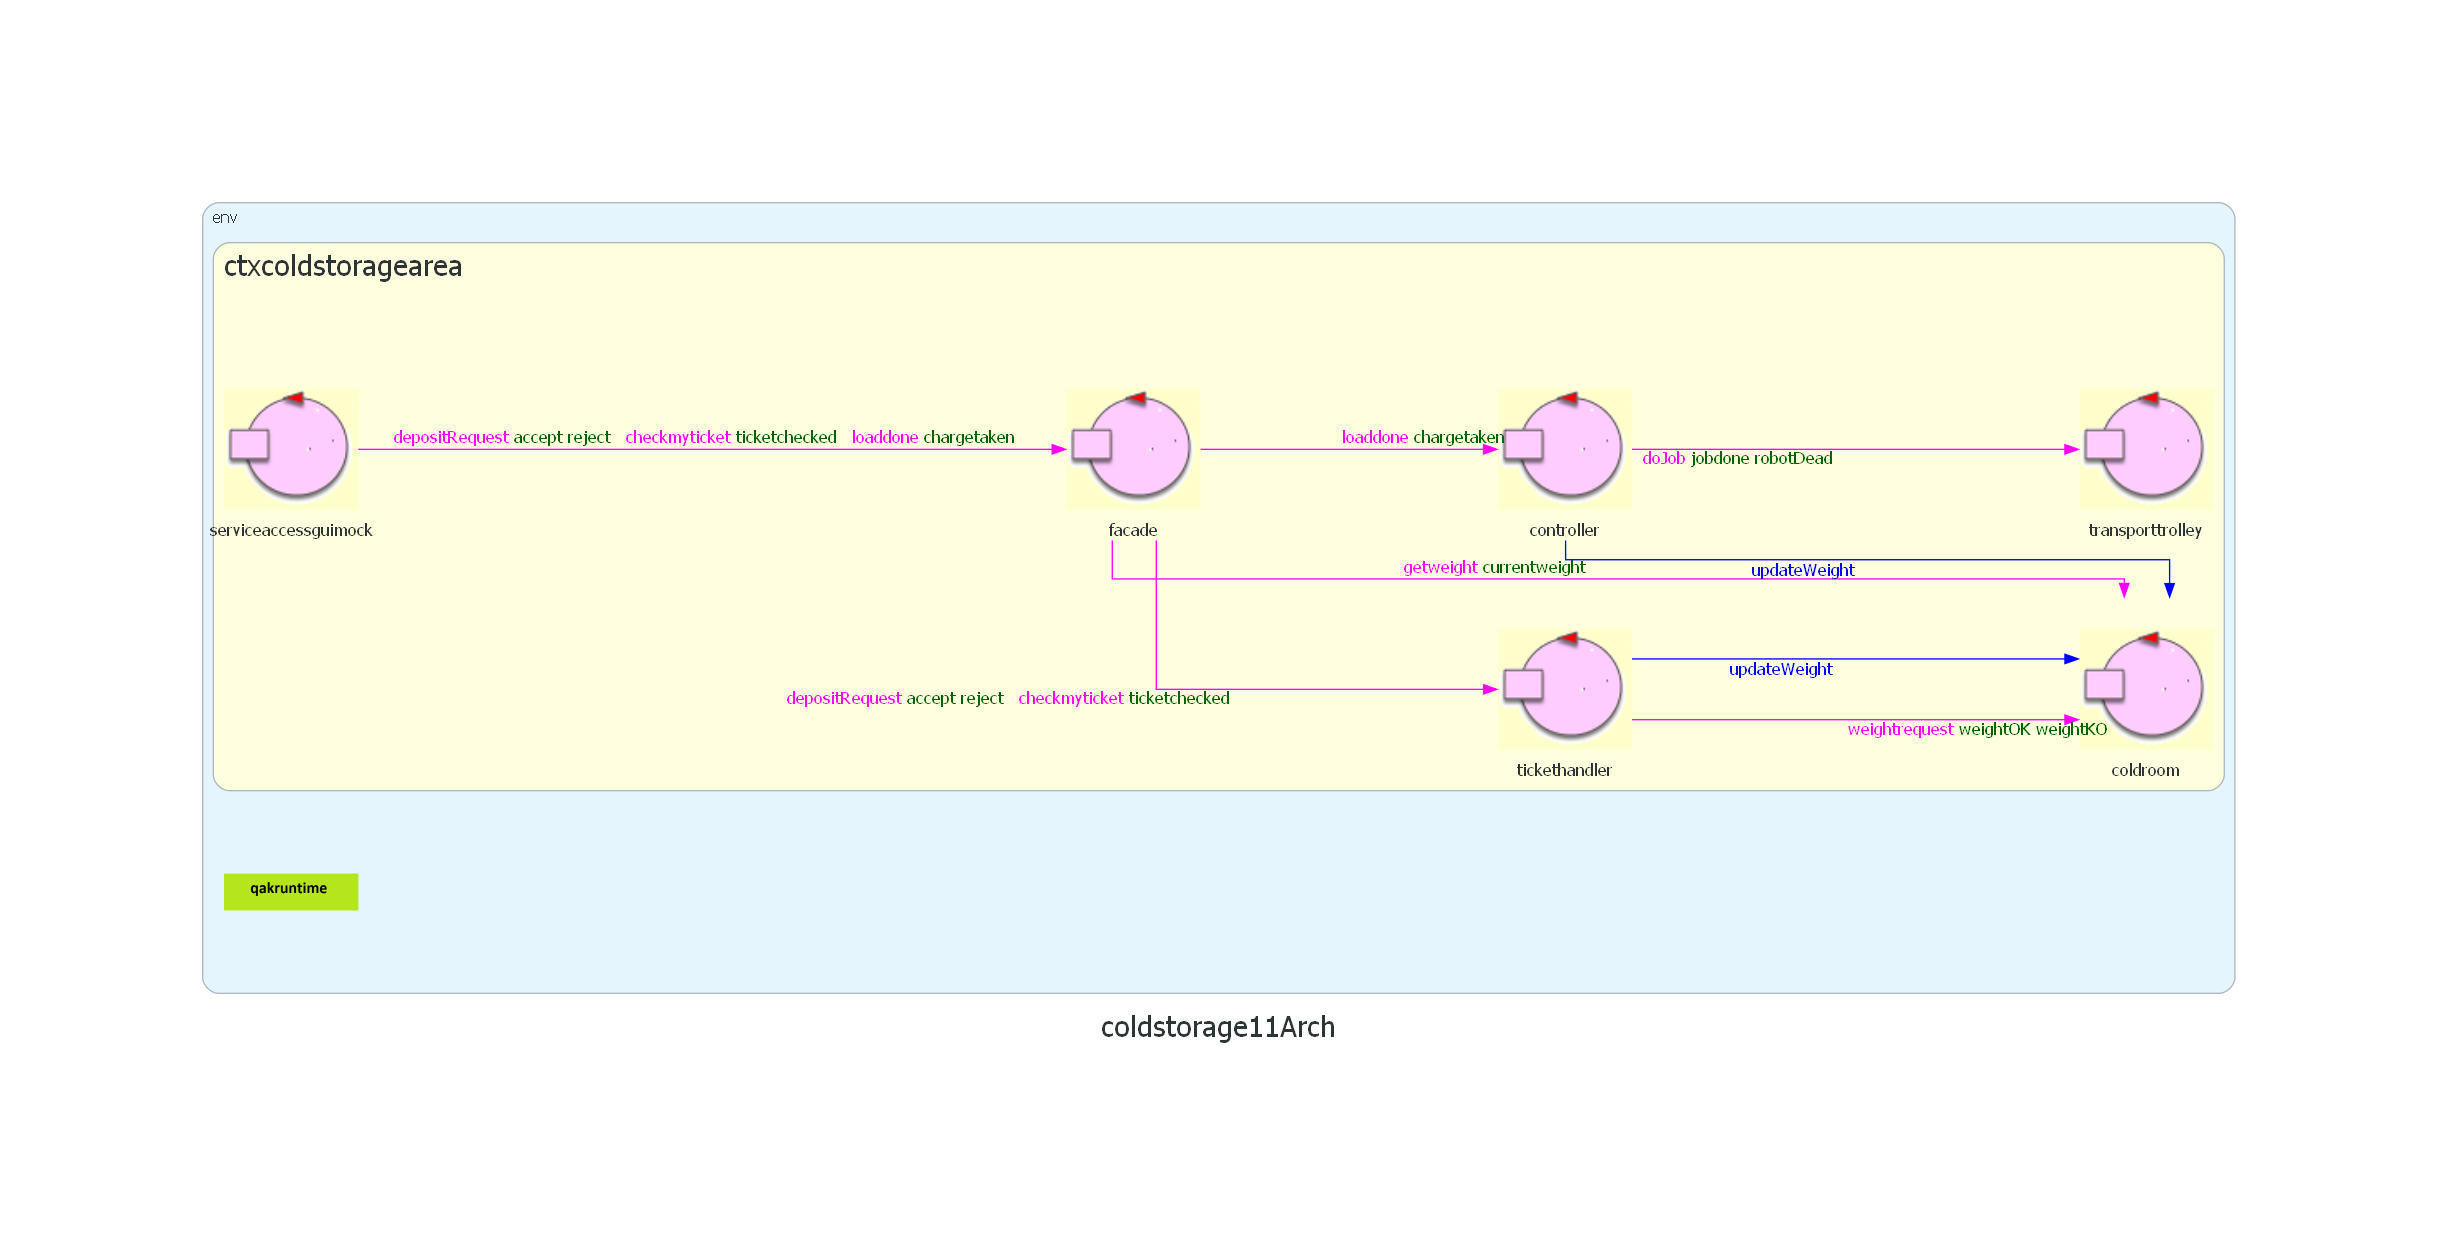
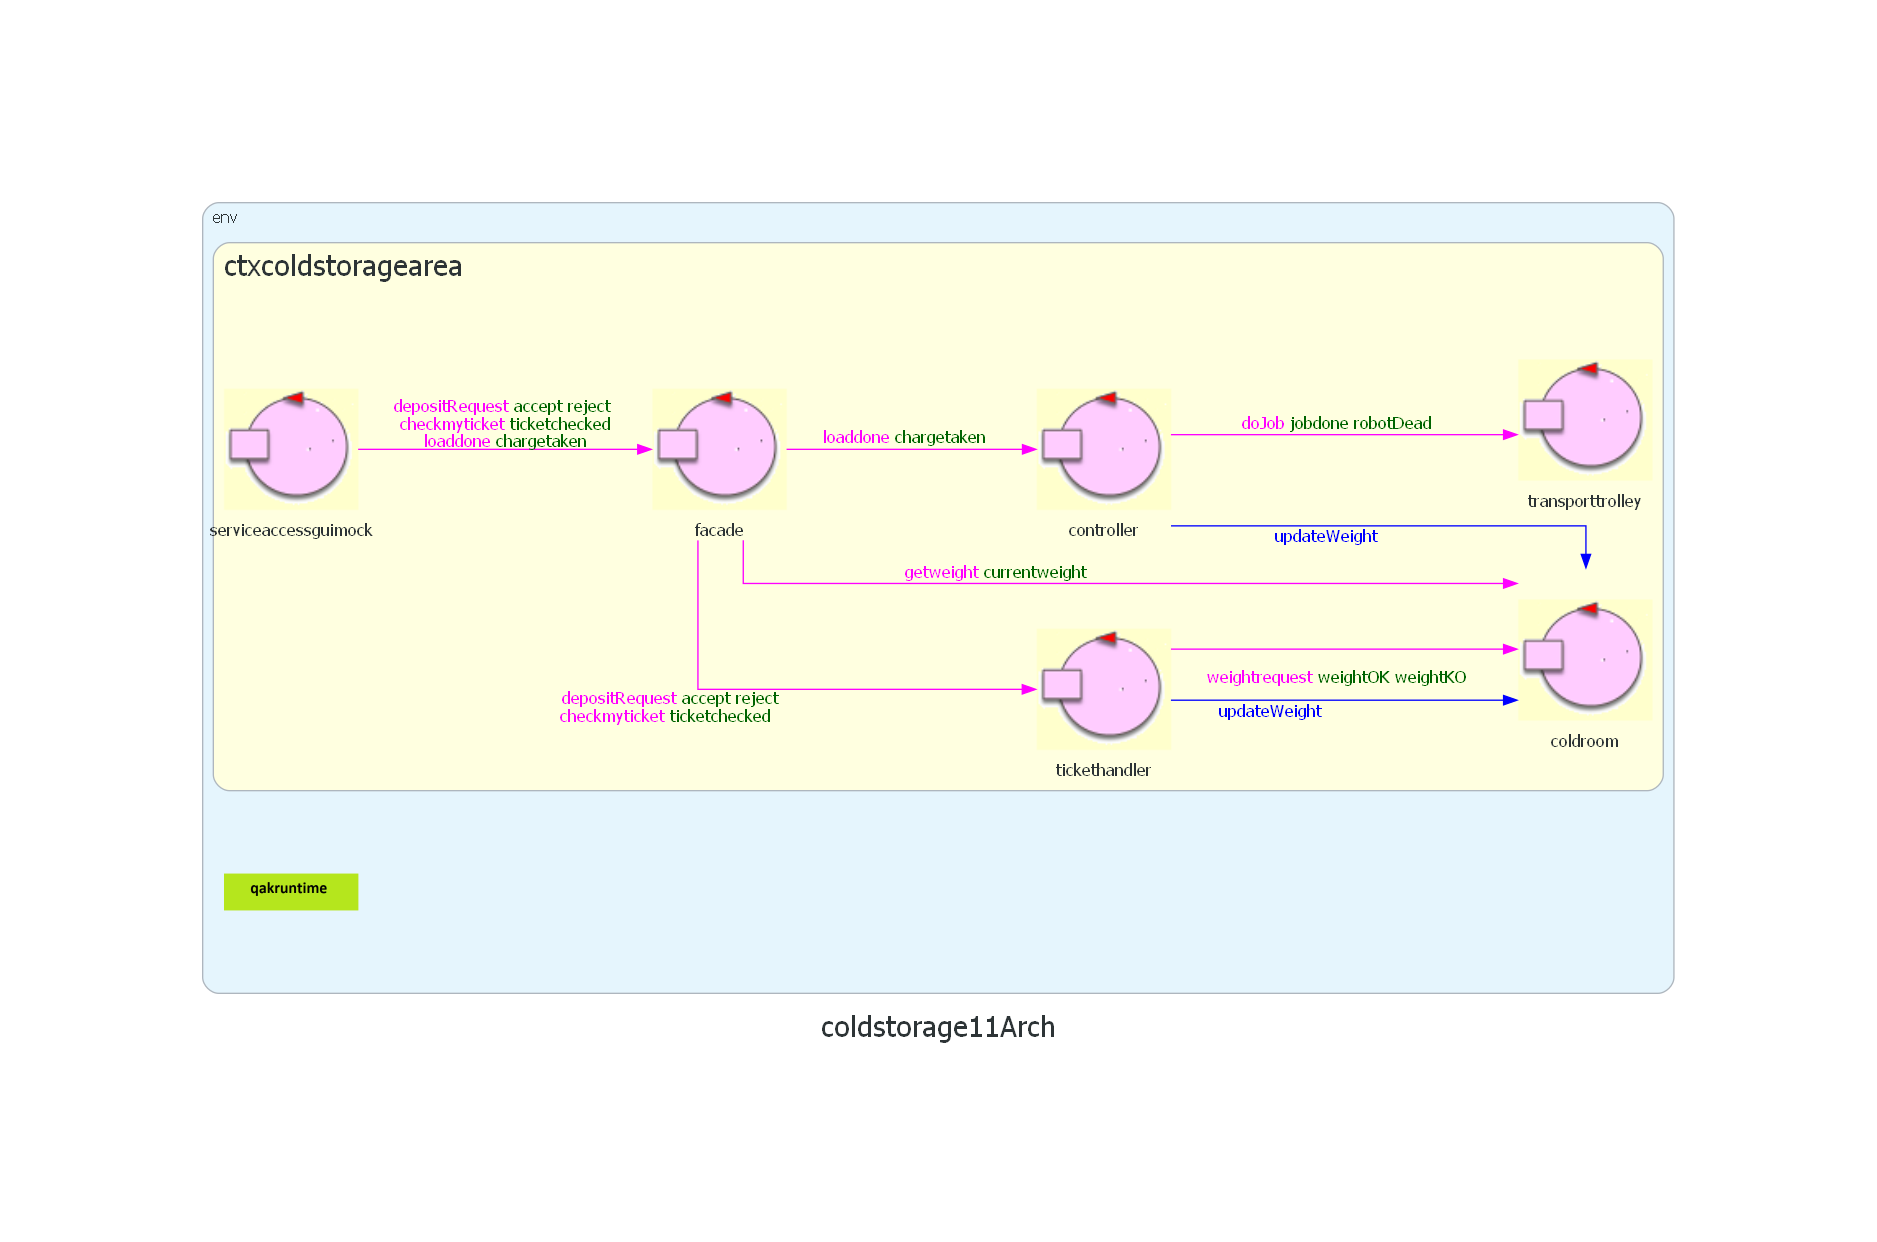
aggiornamento grafici

Changed region(s): [[0.0618, 0.153, 0.927, 0.8261], [0.4326, 0.7955, 0.5562, 0.8567], [0.309, 0.5507, 0.4944, 0.5813]]

diff --git a/Sprint3/Codice/ColdStorage3/Arch_coldstorage3Modificato.py b/Sprint3/Codice/ColdStorage3/Arch_coldstorage3Modificato.py
@@ -32,15 +32,15 @@ with Diagram('coldstorage3Arch', show=False, outformat='png', graph_attr=graphat
      with Cluster('ctxalarm', graph_attr=nodeattr):
           led=Custom('led(ext)','./qakicons/externalQActor.png')
           sonar=Custom('sonar(ext)','./qakicons/externalQActor.png')
-     serviceaccessguimock >> Edge(minlen="4", color='magenta', style='solid', label='<depositRequest<font color="darkgreen"> accept reject</font> &nbsp; checkmyticket<font color="darkgreen"> ticketchecked</font> &nbsp; loaddone<font color="darkgreen"> chargetaken</font> &nbsp; >',  fontcolor='magenta') >> facade
-     facade >> Edge(minlen="4", color='magenta', style='solid', label='<depositRequest<font color="darkgreen"> accept reject</font> &nbsp; checkmyticket<font color="darkgreen"> ticketchecked</font> &nbsp; getrejectedtickets<font color="darkgreen"> rejectedtickets</font> &nbsp; >',  fontcolor='magenta') >> tickethandler
-     servicestatusguimock >> Edge(minlen="4", color='magenta', style='solid', label='<getweight<font color="darkgreen"> currentweight</font> &nbsp; getrobotstate<font color="darkgreen"> robotstate</font> &nbsp; getrejectedtickets<font color="darkgreen"> rejectedtickets</font> &nbsp; >',  fontcolor='magenta') >> facade
-     controller >> Edge(minlen="6", color='magenta', style='solid', xlabel='<doJob<font color="darkgreen"> jobdone robotDead</font> &nbsp; >',  fontcolor='magenta') >> transporttrolley
-     tickethandler >> Edge(minlen="4", color='magenta', style='solid', xlabel='<weightrequest<font color="darkgreen"> weightOK weightKO</font> &nbsp; >',  fontcolor='magenta') >> coldroom
-     facade >> Edge(minlen="4", color='magenta', style='solid', xlabel='<loaddone<font color="darkgreen"> chargetaken</font> &nbsp; >',  fontcolor='magenta') >> controller
-     facade >> Edge(minlen="4", color='magenta', style='solid', xlabel='<getweight<font color="darkgreen"> currentweight</font> &nbsp; >',  fontcolor='magenta') >> coldroom
-     controller >> Edge(minlen="4", color='blue', style='solid',  label='<updateWeight &nbsp; >',  fontcolor='blue') >> coldroom
-     controller >> Edge(minlen="4", color='blue', style='solid',  xlabel='<stopped &nbsp; arrivedhome &nbsp; moving &nbsp; >',  fontcolor='blue') >> led
-     tickethandler >> Edge(minlen="4", color='blue', style='solid',  label='<updateWeight &nbsp; >',  fontcolor='blue') >> coldroom
-     sonar >> Edge(minlen="4", color='blue', style='solid',  xlabel='<stop &nbsp; continue &nbsp; >',  fontcolor='blue') >> controller
+     serviceaccessguimock >> Edge(color='magenta', style='solid', label='<depositRequest<font color="darkgreen"> accept reject</font> &nbsp;<BR/>checkmyticket<font color="darkgreen"> ticketchecked</font> &nbsp;<BR/>loaddone<font color="darkgreen"> chargetaken</font> &nbsp; >',  fontcolor='magenta') >> facade
+     facade >> Edge(color='magenta', style='solid', label='<depositRequest<font color="darkgreen"> accept reject</font> &nbsp;<BR/>checkmyticket<font color="darkgreen"> ticketchecked</font> &nbsp;<BR/>getrejectedtickets<font color="darkgreen"> rejectedtickets</font> &nbsp; >',  fontcolor='magenta') >> tickethandler
+     servicestatusguimock >> Edge(color='magenta', style='solid', label='<getweight<font color="darkgreen"> currentweight</font> &nbsp;<BR/>getrobotstate<font color="darkgreen"> robotstate</font> &nbsp;<BR/>getrejectedtickets<font color="darkgreen"> rejectedtickets</font> &nbsp; >',  fontcolor='magenta') >> facade
+     controller >> Edge(color='magenta', style='solid', label='<doJob<font color="darkgreen"> jobdone robotDead</font> &nbsp; >',  fontcolor='magenta') >> transporttrolley
+     tickethandler >> Edge(color='magenta', style='solid', label='<weightrequest<font color="darkgreen"> weightOK weightKO</font> &nbsp; >',  fontcolor='magenta') >> coldroom
+     facade >> Edge(color='magenta', style='solid', label='<loaddone<font color="darkgreen"> chargetaken</font> &nbsp; >',  fontcolor='magenta') >> controller
+     facade >> Edge(color='magenta', style='solid', xlabel='<getweight<font color="darkgreen"> currentweight</font> &nbsp; >',  fontcolor='magenta') >> coldroom
+     controller >> Edge(color='blue', style='solid',  xlabel='<updateWeight &nbsp; >',  fontcolor='blue') >> coldroom
+     controller >> Edge(color='blue', style='solid',  label='<stopped &nbsp; arrivedhome &nbsp; moving &nbsp; >',  fontcolor='blue') >> led
+     tickethandler >> Edge(color='blue', style='solid',  label='<updateWeight &nbsp; >',  fontcolor='blue') >> coldroom
+     sonar >> Edge(color='blue', style='solid',  xlabel='<stop &nbsp; continue &nbsp; >',  fontcolor='blue') >> controller
 diag

diff --git a/Sprint2/Codice/ColdStorage/Arch_coldstorage2Modificato.py b/Sprint2/Codice/ColdStorage/Arch_coldstorage2Modificato.py
@@ -31,14 +31,14 @@ with Diagram('coldstorage2Arch', show=False, outformat='png', graph_attr=graphat
      with Cluster('ctxalarm', graph_attr=nodeattr):
           led=Custom('led(ext)','./qakicons/externalQActor.png')
           sonar=Custom('sonar(ext)','./qakicons/externalQActor.png')
-     facade >> Edge(minlen="4", color='magenta', style='solid', xlabel='<depositRequest<font color="darkgreen"> accept reject</font> &nbsp; checkmyticket<font color="darkgreen"> ticketchecked</font> &nbsp; >',  fontcolor='magenta') >> tickethandler
-     serviceaccessguimock >> Edge(color='magenta', style='solid', label='<depositRequest<font color="darkgreen"> accept reject</font> &nbsp; checkmyticket<font color="darkgreen"> ticketchecked</font> &nbsp; loaddone<font color="darkgreen"> chargetaken</font> &nbsp; >',  fontcolor='magenta') >> facade
-     facade >> Edge(minlen="4",color='magenta', style='solid', xlabel='<loaddone<font color="darkgreen"> chargetaken</font> &nbsp; >',  fontcolor='magenta') >> controller
-     facade >> Edge(minlen="4", color='magenta', style='solid', xlabel='<getweight<font color="darkgreen"> currentweight</font> &nbsp; >',  fontcolor='magenta') >> coldroom
-     controller >> Edge(minlen="4", color='magenta', style='solid', xlabel='<doJob<font color="darkgreen"> jobdone robotDead</font> &nbsp; >',  fontcolor='magenta') >> transporttrolley
-     tickethandler >> Edge(minlen="4", color='magenta', style='solid', xlabel='<weightrequest<font color="darkgreen"> weightOK weightKO</font> &nbsp; >',  fontcolor='magenta') >> coldroom
-     controller >> Edge(minlen="4", color='blue', style='solid', xlabel='<updateWeight &nbsp; >',  fontcolor='blue') >> coldroom
-     controller >> Edge(minlen="4", color='blue', style='solid', xlabel='<stopped &nbsp; arrivedhome &nbsp; moving &nbsp; >',  fontcolor='blue') >> led
-     tickethandler >> Edge(minlen="4", color='blue', style='solid', xlabel='<updateWeight &nbsp; >',  fontcolor='blue') >> coldroom
-     sonar >> Edge(color='blue', style='solid',  xlabel='<stop &nbsp; continue &nbsp; >',  fontcolor='blue') >> controller
+     facade >> Edge(color='magenta', style='solid', label='<depositRequest<font color="darkgreen"> accept reject</font> &nbsp;<BR/>checkmyticket<font color="darkgreen"> ticketchecked</font> &nbsp; >',  fontcolor='magenta') >> tickethandler
+     serviceaccessguimock >> Edge(color='magenta', style='solid', label='<depositRequest<font color="darkgreen"> accept reject</font> &nbsp;<BR/>checkmyticket<font color="darkgreen"> ticketchecked</font> &nbsp;<BR/>loaddone<font color="darkgreen"> chargetaken</font> &nbsp; >',  fontcolor='magenta') >> facade
+     facade >> Edge(color='magenta', style='solid', label='<loaddone<font color="darkgreen"> chargetaken</font> &nbsp; >',  fontcolor='magenta') >> controller
+     facade >> Edge(color='magenta', style='solid', xlabel='<getweight<font color="darkgreen"> currentweight</font> &nbsp; >',  fontcolor='magenta') >> coldroom
+     controller >> Edge(color='magenta', style='solid', label='<doJob<font color="darkgreen"> jobdone robotDead</font> &nbsp; >',  fontcolor='magenta') >> transporttrolley
+     tickethandler >> Edge(color='magenta', style='solid', label='<weightrequest<font color="darkgreen"> weightOK weightKO</font> &nbsp; >',  fontcolor='magenta') >> coldroom
+     controller >> Edge(color='blue', style='solid', xlabel='<updateWeight &nbsp; >',  fontcolor='blue') >> coldroom
+     controller >> Edge(color='blue', style='solid', label='<stopped &nbsp; arrivedhome &nbsp; moving &nbsp; >',  fontcolor='blue') >> led
+     tickethandler >> Edge(color='blue', style='solid', xlabel='<updateWeight &nbsp; >',  fontcolor='blue') >> coldroom
+     sonar >> Edge(color='blue', style='solid', xlabel='<stop &nbsp; continue &nbsp; >',  fontcolor='blue') >> controller
 diag

diff --git a/Sprint1.1/Codice/ColdStorageSprint2/Arch_coldstorage11Modificato.py b/Sprint1.1/Codice/ColdStorageSprint2/Arch_coldstorage11Modificato.py
@@ -28,12 +28,12 @@ with Diagram('coldstorage11Arch', show=False, outformat='png', graph_attr=grapha
           facade=Custom('facade','./qakicons/symActorSmall.png')
           serviceaccessguimock=Custom('serviceaccessguimock','./qakicons/symActorSmall.png')
           transporttrolley=Custom('transporttrolley','./qakicons/symActorSmall.png')
-     facade >> Edge(minlen="4", color='magenta', style='solid', xlabel='<depositRequest<font color="darkgreen"> accept reject</font> &nbsp; checkmyticket<font color="darkgreen"> ticketchecked</font> &nbsp; >',  fontcolor='magenta') >> tickethandler
-     serviceaccessguimock >> Edge(color='magenta', style='solid', label='<depositRequest<font color="darkgreen"> accept reject</font> &nbsp; checkmyticket<font color="darkgreen"> ticketchecked</font> &nbsp; loaddone<font color="darkgreen"> chargetaken</font> &nbsp; >',  fontcolor='magenta') >> facade
-     facade >> Edge(minlen="4", color='magenta', style='solid', xlabel='<loaddone<font color="darkgreen"> chargetaken</font> &nbsp; >',  fontcolor='magenta') >> controller
-     facade >> Edge(minlen="4", color='magenta', style='solid', xlabel='<getweight<font color="darkgreen"> currentweight</font> &nbsp; >',  fontcolor='magenta') >> coldroom
-     controller >> Edge(minlen="6", color='magenta', style='solid', xlabel='<doJob<font color="darkgreen"> jobdone robotDead</font> &nbsp; >',  fontcolor='magenta') >> transporttrolley
-     tickethandler >> Edge(minlen="4", color='magenta', style='solid', xlabel='<weightrequest<font color="darkgreen"> weightOK weightKO</font> &nbsp; >',  fontcolor='magenta') >> coldroom
-     controller >> Edge(minlen="4", color='blue', style='solid',  xlabel='<updateWeight &nbsp; >',  fontcolor='blue') >> coldroom
-     tickethandler >> Edge(minlen="6", color='blue', style='solid',  xlabel='<updateWeight &nbsp; >',  fontcolor='blue') >> coldroom
+     facade >> Edge(color='magenta', style='solid', xlabel='<depositRequest<font color="darkgreen"> accept reject</font><BR/> checkmyticket<font color="darkgreen"> ticketchecked</font> &nbsp; >',  fontcolor='magenta') >> tickethandler
+     serviceaccessguimock >> Edge(color='magenta', style='solid', label='<depositRequest<font color="darkgreen"> accept reject</font> <BR/> checkmyticket<font color="darkgreen"> ticketchecked</font> <BR/> loaddone<font color="darkgreen"> chargetaken</font> >',  fontcolor='magenta') >> facade
+     facade >> Edge(color='magenta', style='solid', label='<loaddone<font color="darkgreen"> chargetaken</font> &nbsp; >',  fontcolor='magenta') >> controller
+     facade >> Edge(color='magenta', style='solid', xlabel='<getweight<font color="darkgreen"> currentweight</font> &nbsp; >',  fontcolor='magenta') >> coldroom
+     controller >> Edge(color='magenta', style='solid', label='<doJob<font color="darkgreen"> jobdone robotDead</font> &nbsp; >',  fontcolor='magenta') >> transporttrolley
+     tickethandler >> Edge(color='magenta', style='solid', label='<weightrequest<font color="darkgreen"> weightOK weightKO</font> &nbsp; >',  fontcolor='magenta') >> coldroom
+     controller >> Edge(color='blue', style='solid',  xlabel='<updateWeight &nbsp; >',  fontcolor='blue') >> coldroom
+     tickethandler >> Edge(color='blue', style='solid',  xlabel='<updateWeight &nbsp; >',  fontcolor='blue') >> coldroom
 diag
